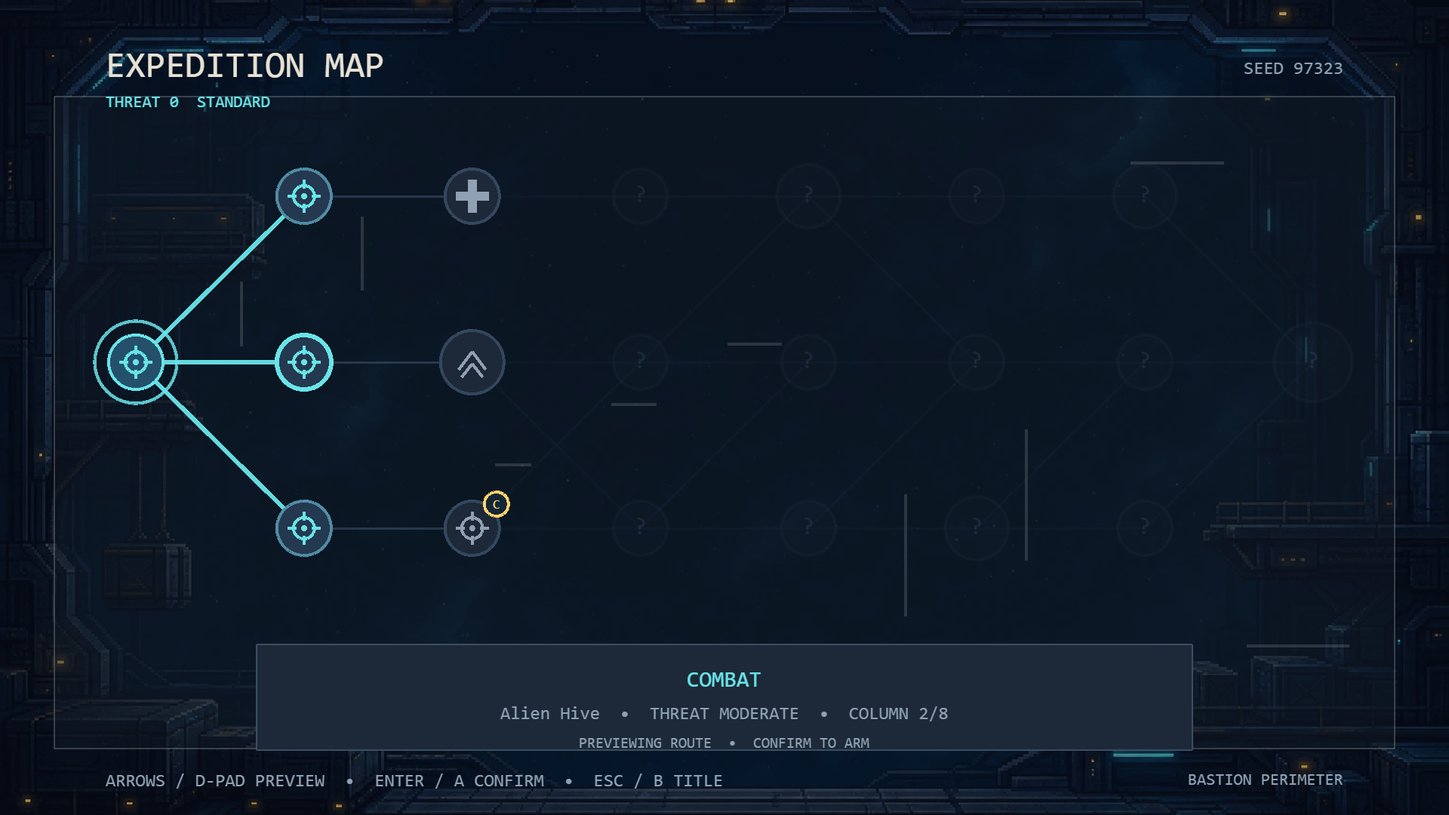
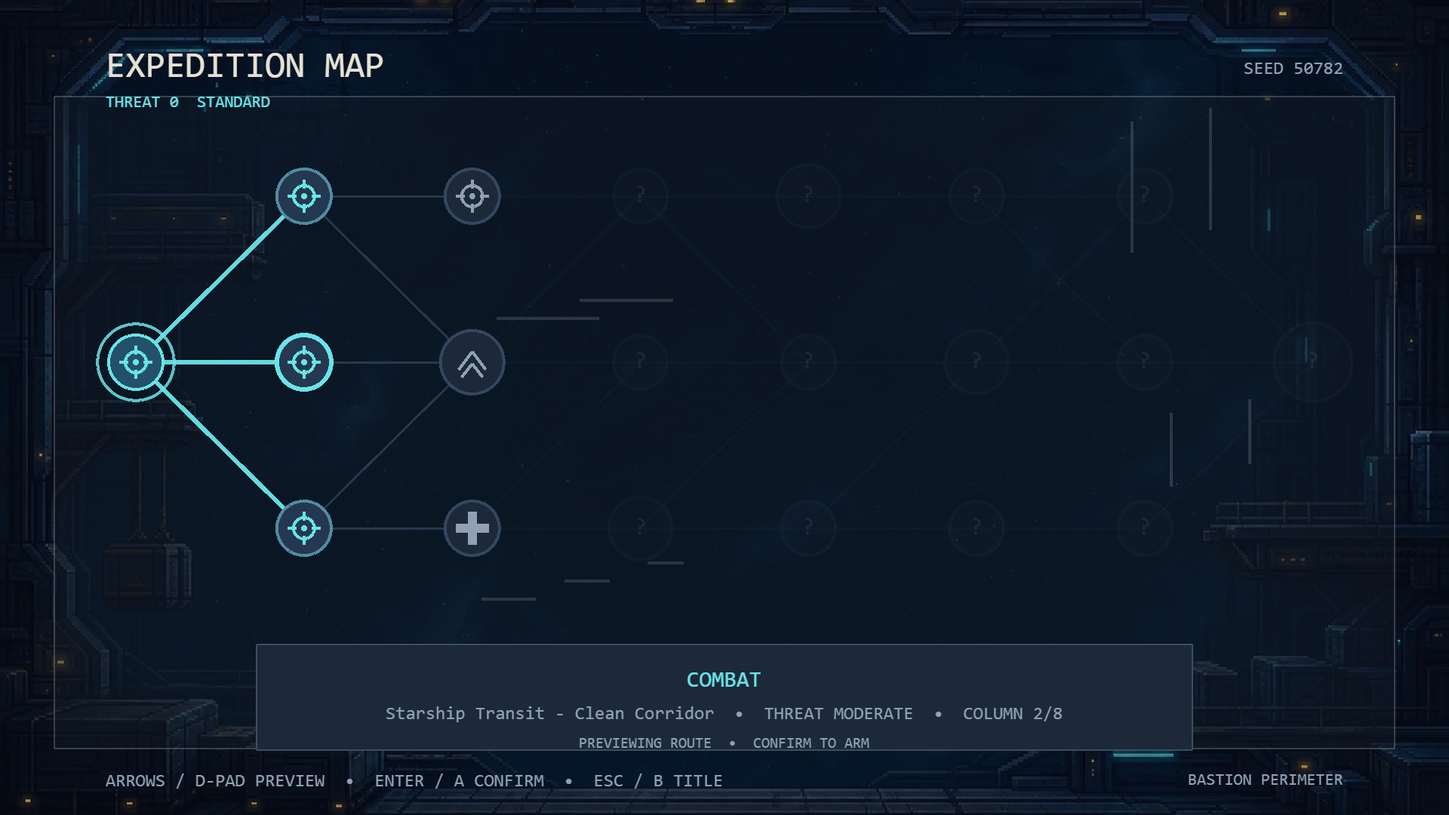
Last Bastion: clarify map objective and cleared badges

diff --git a/play/last-bastion/game-assets/ExpeditionScene.js b/play/last-bastion/game-assets/ExpeditionScene.js
@@ -1,1 +1,1 @@
-import{t as e}from"./phaser.js";import{H as t,Nt as n,St as r,f as i,l as a,p as o}from"./game.js";import{n as s,r as c}from"./PhaserAssetQueue.js";import{a as l,c as u,i as d,l as f,n as p,o as m,r as h,s as g,t as _,u as v}from"./arctic-relay-map-backdrop-v1-1536x1024.js";import{a as y,b,c as x,i as S,l as C,n as w,o as T,r as E,s as D,u as O,v as k,y as A}from"./ExpeditionRun.js";import{t as j}from"./BastionBackdropAsset.js";var M=z(`alien-hive-map-backdrop-v1`,c(v,f)),N=z(`arctic-relay-map-backdrop-v1`,c(p,_)),P=z(`machine-foundry-map-backdrop-v1`,c(u,g)),F=z(`science-wing-map-backdrop-v1`,c(m,l)),I=z(`void-approach-map-backdrop-v1`,c(d,h)),L=Object.freeze({"bastion-standard":j,"bastion-logistics":j,emberfall:P,"toxic-bloom":M,"surface-frontier":j,"starship-transit":F,"containment-underworld":I,"alien-hive":M,"machine-foundry":P,"science-wing":F,"void-approach":I,"arctic-relay":N});function R(e){return L[e]??j}function z(e,t){return Object.freeze({kind:`image`,id:e,url:t,logicalWidth:1536,logicalHeight:1024,pivot:Object.freeze({x:.5,y:.5})})}function B(e,t,n,r){let i=r!==void 0&&n.includes(r)?r:n[0],a=i===void 0?null:C(e,i),o=C(e,t);return R(a?.themeId??o?.themeId??`bastion-standard`)}function V(e){switch(e){case 12:case 14:return`previous`;case 13:case 15:return`next`;case 0:return`confirm`;case 1:return`back`;default:return null}}var H=Object.freeze({combat:`crosshair`,elite:`chevrons`,"mini-boss":`crown`,"supply-depot":`medical-cross`,"weapon-cache":`weapon-crate`,shrine:`shrine`,event:`question`,liberation:`flag`,boss:`skull`});function U(e,t,n,r,i){let a=e.add.graphics().setPosition(n,r);switch(a.lineStyle(t===`boss`?2.5:2,i,1).fillStyle(i,1),H[t]){case`crosshair`:a.strokeCircle(0,0,7).lineBetween(-11,0,-5,0).lineBetween(5,0,11,0).lineBetween(0,-11,0,-5).lineBetween(0,5,0,11).fillCircle(0,0,2);break;case`chevrons`:a.beginPath().moveTo(-9,5).lineTo(0,-7).lineTo(9,5).strokePath(),a.beginPath().moveTo(-7,10).lineTo(0,1).lineTo(7,10).strokePath();break;case`crown`:a.beginPath().moveTo(-10,7).lineTo(-8,-7).lineTo(-2,-1).lineTo(0,-9).lineTo(3,-1).lineTo(9,-7).lineTo(10,7).closePath().strokePath(),a.lineBetween(-9,4,9,4);break;case`medical-cross`:a.fillRect(-3,-11,6,22).fillRect(-11,-3,22,6);break;case`weapon-crate`:a.strokeRect(-11,-8,22,16).lineBetween(-7,5,7,-5).fillCircle(-7,5,2).fillCircle(7,-5,2);break;case`shrine`:a.beginPath().moveTo(0,-12).lineTo(10,0).lineTo(0,12).lineTo(-10,0).closePath().strokePath(),a.strokeCircle(0,0,3);break;case`question`:a.beginPath().arc(0,-4,7,Math.PI,Math.PI*2.15).strokePath().lineBetween(5,0,0,6).fillCircle(0,11,2);break;case`flag`:a.lineBetween(-7,-11,-7,11).beginPath().moveTo(-6,-10).lineTo(9,-7).lineTo(4,0).lineTo(-6,-2).closePath().strokePath();break;case`skull`:a.strokeCircle(0,-2,10).fillCircle(-4,-4,2.5).fillCircle(4,-4,2.5).lineBetween(-6,7,6,7).lineBetween(-3,7,-3,11).lineBetween(1,7,1,11).lineBetween(5,7,5,10);break}return a}var W=960,G=540,K=1911096,q=`#e8e2d4`,J=`#68e4e8`,Y=6874344,X=`#ff9a52`,Z=`#8fa1b3`,Q=90,$=W-90,ee=130,te=110,ne=Object.freeze({combat:`COMBAT`,elite:`ELITE — guaranteed cache`,"mini-boss":`MINI-BOSS — arsenal reward`,"supply-depot":`SUPPLY DEPOT — safe`,"weapon-cache":`WEAPON CACHE — safe`,shrine:`SHRINE — a bargain`,event:`EVENT — unknown`,liberation:`OCCUPIED SITE — clear it to trade`,boss:`THE BASTION EATER`}),re=class extends e.Scene{saveStore;run;root;focusIndex=0;travelling=!1;armedNodeId=null;pulseTime=0;mapRevealBonusColumns=0;backdropPreloadKey=``;constructor(){super(`expedition`)}init(){this.saveStore=a(typeof window<`u`?window:null),this.mapRevealBonusColumns=r(this.saveStore.load().selectedPerkId).mapRevealBonusColumns,this.run=this.restoreOrStartRun()}preload(){s(this,[this.currentBackdropAsset()])}create(){this.root=this.add.container(0,0),window.addEventListener(`keydown`,this.handleKey),this.events.once(`shutdown`,()=>window.removeEventListener(`keydown`,this.handleKey)),this.input.gamepad?.on(`down`,(e,t)=>{if(this.travelling)return;let n=V(t.index);n===`previous`?this.moveFocus(-1):n===`next`?this.moveFocus(1):n===`confirm`?this.confirmFocusedNode():n===`back`&&(window.location.href=`?screen=title`)}),this.render(),window.setTimeout(()=>this.preloadLikelyNextBackdrop(),0),E(this.run)?this.saveStore.clearExpedition():w(this.run)&&window.setTimeout(()=>this.launchCurrentEncounter(),0)}update(e,t){this.pulseTime+=t,this.root.getByName(`current-pulse`)?.setScale(1+Math.sin(this.pulseTime/260)*.12)}restoreOrStartRun(){let e=new URLSearchParams(window.location.search),t=Number(e.get(`mapseed`)),n=i(Number(e.get(`threat`)));if(Number.isFinite(t)&&t>0)return x(Math.floor(t),n);let r=this.saveStore.load().expedition;if(r){let e=T({mapSeed:r.mapSeed,threatTier:i(r.threatTier),currentNodeId:r.currentNodeId,clearedNodeIds:r.clearedNodeIds,build:r.build,metrics:r.metrics});if(e)return e;this.saveStore.clearExpedition()}return x(Date.now()%1e5+1,n)}handleKey=e=>{if(!this.travelling)switch(e.code){case`ArrowUp`:case`KeyW`:case`ArrowLeft`:case`KeyA`:e.preventDefault(),this.moveFocus(-1);break;case`ArrowDown`:case`KeyS`:case`ArrowRight`:case`KeyD`:e.preventDefault(),this.moveFocus(1);break;case`Enter`:case`Space`:case`NumpadEnter`:e.preventDefault(),this.confirmFocusedNode();break;case`Escape`:e.preventDefault(),window.location.href=`?screen=title`;break}};moveFocus(e){let t=D(this.run);t.length!==0&&(this.focusIndex=(this.focusIndex+e+t.length)%t.length,this.armedNodeId=null,this.render(),window.setTimeout(()=>this.preloadLikelyNextBackdrop(),0))}confirmFocusedNode(){let e=D(this.run)[this.focusIndex];if(e!==void 0){if(this.armedNodeId!==e){this.armedNodeId=e,this.render(),window.setTimeout(()=>this.preloadLikelyNextBackdrop(),0);return}this.travelTo(e)}}focusNode(e){let t=D(this.run).indexOf(e);t<0||t===this.focusIndex||(this.focusIndex=t,this.armedNodeId=null,this.render(),window.setTimeout(()=>this.preloadLikelyNextBackdrop(),0))}selectNode(e){let t=D(this.run).indexOf(e);if(!(t<0)){if(this.focusIndex=t,this.armedNodeId===e){this.travelTo(e);return}this.armedNodeId=e,this.render(),window.setTimeout(()=>this.preloadLikelyNextBackdrop(),0)}}travelTo(e){let t=S(this.run,e);if(!t||this.travelling)return;let n=this.nodePosition(C(this.run.map,this.run.state.currentNodeId)),r=this.nodePosition(C(this.run.map,e));this.run=t,this.focusIndex=0,this.autosave(),this.render(),window.setTimeout(()=>this.preloadLikelyNextBackdrop(),0),this.travelling=!0;let i=this.add.triangle(n.x,n.y,0,-9,8,7,-8,7,16765803).setDepth(50).setRotation(Math.atan2(r.y-n.y,r.x-n.x)+Math.PI/2);this.tweens.add({targets:i,x:r.x,y:r.y,duration:420}),window.setTimeout(()=>{i.active&&i.destroy(),this.travelling=!1,this.launchCurrentEncounter()},450)}launchCurrentEncounter(){let e=C(this.run.map,this.run.state.currentNodeId);if(!(!e||!w(this.run))){if(e.type===`shrine`||e.type===`event`){window.location.href=`?screen=event&expedition=1&node=${e.id}`;return}window.location.href=A(k(this.run.state.mapSeed,e,this.run.state.threatTier))}}autosave(){if(E(this.run)){this.saveStore.clearExpedition();return}this.saveStore.saveExpedition({mapSeed:this.run.state.mapSeed,threatTier:this.run.state.threatTier,currentNodeId:this.run.state.currentNodeId,clearedNodeIds:[...this.run.state.clearedNodeIds],build:this.run.state.build===null?null:{...this.run.state.build,weapons:this.run.state.build.weapons.map(e=>({...e})),upgrades:this.run.state.build.upgrades.map(e=>({...e})),transformation:t(this.run.state.build.transformation)},metrics:this.run.state.metrics})}nodePosition(e){return{x:Q+e.column/(this.run.map.columns-1)*($-Q),y:ee+e.lane*te}}render(){window.__expeditionState={currentNodeId:this.run.state.currentNodeId,cleared:this.run.state.clearedNodeIds.length,selectable:D(this.run),focusedNodeId:D(this.run)[this.focusIndex]??null,armedNodeId:this.armedNodeId,complete:E(this.run),seed:this.run.state.mapSeed,threatTier:this.run.state.threatTier},this.root.removeAll(!0);let e=C(this.run.map,this.run.state.currentNodeId),t=O.find(t=>t.id===e.themeId)??O[0];this.renderBackdrop(t),this.root.add(this.text(70,32,`EXPEDITION MAP`,q,`24px`));let n=o(this.run.state.threatTier);this.root.add(this.text(70,61,`THREAT ${n.tier}  ${n.name}`,n.tier>0?X:J,`11px`)),this.root.add(this.text(W-70,38,`SEED ${this.run.state.mapSeed}`,Z,`12px`).setOrigin(1,0)),this.renderEdges(),this.renderNodes(),this.renderIntelCard(),E(this.run)?(this.root.add(this.add.rectangle(W/2,G/2,560,130,K).setStrokeStyle(2,Y).setDepth(60)),this.root.add(this.text(W/2,G/2-22,`EXPEDITION COMPLETE`,J,`24px`,!0).setDepth(61)),this.root.add(this.text(W/2,288,`The Bastion Eater's node is cleared. ESC returns to the title.`,q,`13px`,!0).setDepth(61))):this.root.add(this.text(70,G-30,`ARROWS / D-PAD PREVIEW  •  ENTER / A CONFIRM  •  ESC / B TITLE`,Z,`12px`))}renderBackdrop(e){this.root.add(this.add.rectangle(W/2,G/2,W,G,e.backdropColor));let t=R(e.id);this.textures.exists(t.id)&&this.root.add(this.add.image(W/2,G/2,t.id).setDisplaySize(W,512/768*W).setAlpha(.72)),this.root.add(this.add.rectangle(W/2,280,W-72,G-108,e.backdropColor,.46).setStrokeStyle(1,e.floorTint,.2));let n=this.run.state.mapSeed+this.run.state.currentNodeId*17;for(let t=0;t<9;t+=1){let r=80+n*(t+3)*13%800,i=88+n*(t+5)*7%360,a=24+t*19%70;this.root.add(this.add.rectangle(r,i,a,2,e.boundaryTint,.14).setAngle(t%2==0?0:90))}this.root.add(this.text(W-70,G-30,e.name.toUpperCase(),Z,`11px`).setOrigin(1,0))}currentBackdropAsset(){return R(C(this.run.map,this.run.state.currentNodeId)?.themeId??`bastion-standard`)}preloadLikelyNextBackdrop(){if(this.travelling||!this.scene.isActive())return;let e=D(this.run),t=e[this.focusIndex],n=B(this.run.map,this.run.state.currentNodeId,e,t);n.id===this.currentBackdropAsset().id||n.id===this.backdropPreloadKey||this.textures.exists(n.id)||(this.backdropPreloadKey=n.id,s(this,[n])>0&&!this.load.isLoading()&&this.load.start())}renderEdges(){let e=this.add.graphics().setDepth(1);for(let t of this.run.map.nodes){let n=this.nodePosition(t);for(let r of t.next){let i=C(this.run.map,r),a=this.nodePosition(i),o=t.id===this.run.state.currentNodeId&&D(this.run).includes(r),s=this.isInsideIntelHorizon(i);e.lineStyle(o?3:1.5,o?Y:3360606,o?.95:s?.7:.08),e.lineBetween(n.x,n.y,a.x,a.y)}}this.root.add(e)}renderNodes(){let t=D(this.run)[this.focusIndex];for(let n of this.run.map.nodes){let{x:r,y:i}=this.nodePosition(n),a=y(this.run,n.id),o=this.isInsideIntelHorizon(n),s=n.id===t,c=n.id===this.armedNodeId,l=a===`current`?2379883:a===`reachable`?2373711:a===`cleared`?1712686:a===`open`?K:1580841,u=c?16751186:a===`current`||s?Y:a===`reachable`?5213347:a===`cleared`?2898247:3360606,d=n.type===`boss`?26:n.type===`mini-boss`||n.type===`elite`?21:18,f=this.add.circle(r,i,d,l).setStrokeStyle(s||c?3:2,u).setDepth(10).setAlpha(o?a===`unreachable`?.35:a===`cleared`?.55:1:.1);this.root.add(f);let p=a===`current`||a===`reachable`||s?n.type===`boss`?X:J:Z;o?this.root.add(U(this,n.type,r,i,e.Display.Color.HexStringToColor(p).color).setDepth(11).setAlpha(a===`unreachable`?.4:1)):this.root.add(this.text(r,i-1,`?`,Z,`16px`,!0).setDepth(11).setAlpha(.12));let m=o?k(this.run.state.mapSeed,n,this.run.state.threatTier).objectiveMode:null;if(m){let e=m===`escort`?`E`:m===`deny`?`D`:`C`;this.root.add(this.add.circle(r+d-2,i-d+2,8,1254967).setStrokeStyle(2,16765803).setDepth(13)),this.root.add(this.text(r+d-2,i-d+2,e,`#ffd36b`,`9px`,!0).setDepth(14))}if(a===`cleared`&&this.root.add(this.text(r+d-4,i-d+2,`✓`,J,`11px`,!0).setDepth(12).setAlpha(.8)),a===`current`){let e=this.add.circle(r,i,d+7).setStrokeStyle(2,Y,.85).setDepth(9);e.setName(`current-pulse`),this.root.add(e)}if(a===`reachable`){let e=this.add.zone(r-d,i-d,d*2,d*2).setOrigin(0,0).setInteractive();e.on(`pointerover`,()=>this.focusNode(n.id)),e.on(`pointerdown`,()=>this.selectNode(n.id)),this.root.add(e)}}}isInsideIntelHorizon(e){let t=C(this.run.map,this.run.state.currentNodeId);return e.column<=t.column+2+this.mapRevealBonusColumns}renderIntelCard(){let e=D(this.run)[this.focusIndex];if(e===void 0)return;let t=C(this.run.map,e),n=O.find(e=>e.id===t.themeId),r=k(this.run.state.mapSeed,t,this.run.state.threatTier).objectiveMode,i=t.type===`boss`?`EXTREME`:t.type===`mini-boss`?`SEVERE`:t.type===`elite`?`HIGH`:t.type===`event`?`UNKNOWN`:t.type===`shrine`?`CHOICE`:t.type===`combat`?t.column>=5?`ELEVATED`:`MODERATE`:`NONE`;this.root.add(this.add.rectangle(W/2,G-78,620,70,K).setStrokeStyle(1,this.armedNodeId===e?16751186:3886435).setDepth(20));let a=r?`  •  OBJECTIVE ${b(r)}`:``;this.root.add(this.text(W/2,G-90,`${ne[t.type]}${a}`,J,`15px`,!0).setDepth(21)),this.root.add(this.text(W/2,G-68,`${n?.name??`Unknown region`}  •  THREAT ${i}  •  COLUMN ${t.column+1}/${this.run.map.columns}`,Z,`12px`,!0).setDepth(21)),this.root.add(this.text(W/2,G-48,this.armedNodeId===e?`ROUTE ARMED  •  CONFIRM AGAIN TO DEPLOY`:`PREVIEWING ROUTE  •  CONFIRM TO ARM`,this.armedNodeId===e?X:Z,`10px`,!0).setDepth(21))}text(e,t,r,i,a,o=!1){let s=this.add.text(e,t,r,{fontFamily:`Consolas, monospace`,fontSize:a,color:i,align:o?`center`:`left`}).setResolution(n());return o&&s.setOrigin(.5,.5),s}};export{re as ExpeditionScene};
+import{t as e}from"./phaser.js";import{H as t,Nt as n,St as r,f as i,l as a,p as o}from"./game.js";import{n as s,r as c}from"./PhaserAssetQueue.js";import{a as l,c as u,i as d,l as f,n as p,o as m,r as h,s as g,t as _,u as v}from"./arctic-relay-map-backdrop-v1-1536x1024.js";import{a as y,b,c as x,i as S,l as C,n as w,o as ee,r as T,s as E,u as D,v as O,y as k}from"./ExpeditionRun.js";import{t as A}from"./BastionBackdropAsset.js";var j=R(`alien-hive-map-backdrop-v1`,c(v,f)),M=R(`arctic-relay-map-backdrop-v1`,c(p,_)),N=R(`machine-foundry-map-backdrop-v1`,c(u,g)),P=R(`science-wing-map-backdrop-v1`,c(m,l)),F=R(`void-approach-map-backdrop-v1`,c(d,h)),I=Object.freeze({"bastion-standard":A,"bastion-logistics":A,emberfall:N,"toxic-bloom":j,"surface-frontier":A,"starship-transit":P,"containment-underworld":F,"alien-hive":j,"machine-foundry":N,"science-wing":P,"void-approach":F,"arctic-relay":M});function L(e){return I[e]??A}function R(e,t){return Object.freeze({kind:`image`,id:e,url:t,logicalWidth:1536,logicalHeight:1024,pivot:Object.freeze({x:.5,y:.5})})}function z(e,t,n,r){let i=r!==void 0&&n.includes(r)?r:n[0],a=i===void 0?null:C(e,i),o=C(e,t);return L(a?.themeId??o?.themeId??`bastion-standard`)}function B(e){switch(e){case 12:case 14:return`previous`;case 13:case 15:return`next`;case 0:return`confirm`;case 1:return`back`;default:return null}}var V=Object.freeze({combat:`crosshair`,elite:`chevrons`,"mini-boss":`crown`,"supply-depot":`medical-cross`,"weapon-cache":`weapon-crate`,shrine:`shrine`,event:`question`,liberation:`flag`,boss:`skull`});function H(e,t,n,r,i){let a=e.add.graphics().setPosition(n,r);switch(a.lineStyle(t===`boss`?2.5:2,i,1).fillStyle(i,1),V[t]){case`crosshair`:a.strokeCircle(0,0,7).lineBetween(-11,0,-5,0).lineBetween(5,0,11,0).lineBetween(0,-11,0,-5).lineBetween(0,5,0,11).fillCircle(0,0,2);break;case`chevrons`:a.beginPath().moveTo(-9,5).lineTo(0,-7).lineTo(9,5).strokePath(),a.beginPath().moveTo(-7,10).lineTo(0,1).lineTo(7,10).strokePath();break;case`crown`:a.beginPath().moveTo(-10,7).lineTo(-8,-7).lineTo(-2,-1).lineTo(0,-9).lineTo(3,-1).lineTo(9,-7).lineTo(10,7).closePath().strokePath(),a.lineBetween(-9,4,9,4);break;case`medical-cross`:a.fillRect(-3,-11,6,22).fillRect(-11,-3,22,6);break;case`weapon-crate`:a.strokeRect(-11,-8,22,16).lineBetween(-7,5,7,-5).fillCircle(-7,5,2).fillCircle(7,-5,2);break;case`shrine`:a.beginPath().moveTo(0,-12).lineTo(10,0).lineTo(0,12).lineTo(-10,0).closePath().strokePath(),a.strokeCircle(0,0,3);break;case`question`:a.beginPath().arc(0,-4,7,Math.PI,Math.PI*2.15).strokePath().lineBetween(5,0,0,6).fillCircle(0,11,2);break;case`flag`:a.lineBetween(-7,-11,-7,11).beginPath().moveTo(-6,-10).lineTo(9,-7).lineTo(4,0).lineTo(-6,-2).closePath().strokePath();break;case`skull`:a.strokeCircle(0,-2,10).fillCircle(-4,-4,2.5).fillCircle(4,-4,2.5).lineBetween(-6,7,6,7).lineBetween(-3,7,-3,11).lineBetween(1,7,1,11).lineBetween(5,7,5,10);break}return a}function U(e,t,n,r){let i=e.add.graphics().setPosition(n,r).setDepth(14);switch(i.fillStyle(1254967).fillCircle(0,0,9),i.lineStyle(1.5,16765803).strokeCircle(0,0,8),i.lineStyle(1.7,16765803).fillStyle(16765803),t){case`escort`:i.lineBetween(-5,0,3,0).lineBetween(0,-3,4,0).lineBetween(4,0,0,3),i.fillRect(-5,-4,2,2).fillRect(-5,2,2,2);break;case`deny`:i.lineBetween(-5,-5,5,5).lineBetween(-5,5,5,-5),i.strokeRect(-5,-5,10,10);break;case`collect`:i.fillRect(-5,-4,3,3).fillRect(2,-4,3,3).fillRect(-1.5,0,3,3),i.lineBetween(-5,5,5,5);break}return i}function W(e,t,n){let r=e.add.graphics().setPosition(t,n).setDepth(14);return r.fillStyle(1254967).fillCircle(0,0,8),r.lineStyle(1.5,6874344).strokeCircle(0,0,7),r.lineStyle(2,6874344).lineBetween(-4,0,-1,3).lineBetween(-1,3,5,-4),r}var G=960,K=540,q=1911096,J=`#e8e2d4`,Y=`#68e4e8`,X=6874344,Z=`#ff9a52`,Q=`#8fa1b3`,$=90,te=G-90,ne=130,re=110,ie=Object.freeze({combat:`COMBAT`,elite:`ELITE — guaranteed cache`,"mini-boss":`MINI-BOSS — arsenal reward`,"supply-depot":`SUPPLY DEPOT — safe`,"weapon-cache":`WEAPON CACHE — safe`,shrine:`SHRINE — a bargain`,event:`EVENT — unknown`,liberation:`OCCUPIED SITE — clear it to trade`,boss:`THE BASTION EATER`}),ae=class extends e.Scene{saveStore;run;root;focusIndex=0;travelling=!1;armedNodeId=null;pulseTime=0;mapRevealBonusColumns=0;backdropPreloadKey=``;constructor(){super(`expedition`)}init(){this.saveStore=a(typeof window<`u`?window:null),this.mapRevealBonusColumns=r(this.saveStore.load().selectedPerkId).mapRevealBonusColumns,this.run=this.restoreOrStartRun()}preload(){s(this,[this.currentBackdropAsset()])}create(){this.root=this.add.container(0,0),window.addEventListener(`keydown`,this.handleKey),this.events.once(`shutdown`,()=>window.removeEventListener(`keydown`,this.handleKey)),this.input.gamepad?.on(`down`,(e,t)=>{if(this.travelling)return;let n=B(t.index);n===`previous`?this.moveFocus(-1):n===`next`?this.moveFocus(1):n===`confirm`?this.confirmFocusedNode():n===`back`&&(window.location.href=`?screen=title`)}),this.render(),window.setTimeout(()=>this.preloadLikelyNextBackdrop(),0),T(this.run)?this.saveStore.clearExpedition():w(this.run)&&window.setTimeout(()=>this.launchCurrentEncounter(),0)}update(e,t){this.pulseTime+=t,this.root.getByName(`current-pulse`)?.setScale(1+Math.sin(this.pulseTime/260)*.12)}restoreOrStartRun(){let e=new URLSearchParams(window.location.search),t=Number(e.get(`mapseed`)),n=i(Number(e.get(`threat`)));if(Number.isFinite(t)&&t>0)return x(Math.floor(t),n);let r=this.saveStore.load().expedition;if(r){let e=ee({mapSeed:r.mapSeed,threatTier:i(r.threatTier),currentNodeId:r.currentNodeId,clearedNodeIds:r.clearedNodeIds,build:r.build,metrics:r.metrics});if(e)return e;this.saveStore.clearExpedition()}return x(Date.now()%1e5+1,n)}handleKey=e=>{if(!this.travelling)switch(e.code){case`ArrowUp`:case`KeyW`:case`ArrowLeft`:case`KeyA`:e.preventDefault(),this.moveFocus(-1);break;case`ArrowDown`:case`KeyS`:case`ArrowRight`:case`KeyD`:e.preventDefault(),this.moveFocus(1);break;case`Enter`:case`Space`:case`NumpadEnter`:e.preventDefault(),this.confirmFocusedNode();break;case`Escape`:e.preventDefault(),window.location.href=`?screen=title`;break}};moveFocus(e){let t=E(this.run);t.length!==0&&(this.focusIndex=(this.focusIndex+e+t.length)%t.length,this.armedNodeId=null,this.render(),window.setTimeout(()=>this.preloadLikelyNextBackdrop(),0))}confirmFocusedNode(){let e=E(this.run)[this.focusIndex];if(e!==void 0){if(this.armedNodeId!==e){this.armedNodeId=e,this.render(),window.setTimeout(()=>this.preloadLikelyNextBackdrop(),0);return}this.travelTo(e)}}focusNode(e){let t=E(this.run).indexOf(e);t<0||t===this.focusIndex||(this.focusIndex=t,this.armedNodeId=null,this.render(),window.setTimeout(()=>this.preloadLikelyNextBackdrop(),0))}selectNode(e){let t=E(this.run).indexOf(e);if(!(t<0)){if(this.focusIndex=t,this.armedNodeId===e){this.travelTo(e);return}this.armedNodeId=e,this.render(),window.setTimeout(()=>this.preloadLikelyNextBackdrop(),0)}}travelTo(e){let t=S(this.run,e);if(!t||this.travelling)return;let n=this.nodePosition(C(this.run.map,this.run.state.currentNodeId)),r=this.nodePosition(C(this.run.map,e));this.run=t,this.focusIndex=0,this.autosave(),this.render(),window.setTimeout(()=>this.preloadLikelyNextBackdrop(),0),this.travelling=!0;let i=this.add.triangle(n.x,n.y,0,-9,8,7,-8,7,16765803).setDepth(50).setRotation(Math.atan2(r.y-n.y,r.x-n.x)+Math.PI/2);this.tweens.add({targets:i,x:r.x,y:r.y,duration:420}),window.setTimeout(()=>{i.active&&i.destroy(),this.travelling=!1,this.launchCurrentEncounter()},450)}launchCurrentEncounter(){let e=C(this.run.map,this.run.state.currentNodeId);if(!(!e||!w(this.run))){if(e.type===`shrine`||e.type===`event`){window.location.href=`?screen=event&expedition=1&node=${e.id}`;return}window.location.href=k(O(this.run.state.mapSeed,e,this.run.state.threatTier))}}autosave(){if(T(this.run)){this.saveStore.clearExpedition();return}this.saveStore.saveExpedition({mapSeed:this.run.state.mapSeed,threatTier:this.run.state.threatTier,currentNodeId:this.run.state.currentNodeId,clearedNodeIds:[...this.run.state.clearedNodeIds],build:this.run.state.build===null?null:{...this.run.state.build,weapons:this.run.state.build.weapons.map(e=>({...e})),upgrades:this.run.state.build.upgrades.map(e=>({...e})),transformation:t(this.run.state.build.transformation)},metrics:this.run.state.metrics})}nodePosition(e){return{x:$+e.column/(this.run.map.columns-1)*(te-$),y:ne+e.lane*re}}render(){window.__expeditionState={currentNodeId:this.run.state.currentNodeId,cleared:this.run.state.clearedNodeIds.length,selectable:E(this.run),focusedNodeId:E(this.run)[this.focusIndex]??null,armedNodeId:this.armedNodeId,complete:T(this.run),seed:this.run.state.mapSeed,threatTier:this.run.state.threatTier},this.root.removeAll(!0);let e=C(this.run.map,this.run.state.currentNodeId),t=D.find(t=>t.id===e.themeId)??D[0];this.renderBackdrop(t),this.root.add(this.text(70,32,`EXPEDITION MAP`,J,`24px`));let n=o(this.run.state.threatTier);this.root.add(this.text(70,61,`THREAT ${n.tier}  ${n.name}`,n.tier>0?Z:Y,`11px`)),this.root.add(this.text(G-70,38,`SEED ${this.run.state.mapSeed}`,Q,`12px`).setOrigin(1,0)),this.renderEdges(),this.renderNodes(),this.renderIntelCard(),T(this.run)?(this.root.add(this.add.rectangle(G/2,K/2,560,130,q).setStrokeStyle(2,X).setDepth(60)),this.root.add(this.text(G/2,K/2-22,`EXPEDITION COMPLETE`,Y,`24px`,!0).setDepth(61)),this.root.add(this.text(G/2,288,`The Bastion Eater's node is cleared. ESC returns to the title.`,J,`13px`,!0).setDepth(61))):this.root.add(this.text(70,K-30,`ARROWS / D-PAD PREVIEW  •  ENTER / A CONFIRM  •  ESC / B TITLE`,Q,`12px`))}renderBackdrop(e){this.root.add(this.add.rectangle(G/2,K/2,G,K,e.backdropColor));let t=L(e.id);this.textures.exists(t.id)&&this.root.add(this.add.image(G/2,K/2,t.id).setDisplaySize(G,512/768*G).setAlpha(.72)),this.root.add(this.add.rectangle(G/2,280,G-72,K-108,e.backdropColor,.46).setStrokeStyle(1,e.floorTint,.2));let n=this.run.state.mapSeed+this.run.state.currentNodeId*17;for(let t=0;t<9;t+=1){let r=80+n*(t+3)*13%800,i=88+n*(t+5)*7%360,a=24+t*19%70;this.root.add(this.add.rectangle(r,i,a,2,e.boundaryTint,.14).setAngle(t%2==0?0:90))}this.root.add(this.text(G-70,K-30,e.name.toUpperCase(),Q,`11px`).setOrigin(1,0))}currentBackdropAsset(){return L(C(this.run.map,this.run.state.currentNodeId)?.themeId??`bastion-standard`)}preloadLikelyNextBackdrop(){if(this.travelling||!this.scene.isActive())return;let e=E(this.run),t=e[this.focusIndex],n=z(this.run.map,this.run.state.currentNodeId,e,t);n.id===this.currentBackdropAsset().id||n.id===this.backdropPreloadKey||this.textures.exists(n.id)||(this.backdropPreloadKey=n.id,s(this,[n])>0&&!this.load.isLoading()&&this.load.start())}renderEdges(){let e=this.add.graphics().setDepth(1);for(let t of this.run.map.nodes){let n=this.nodePosition(t);for(let r of t.next){let i=C(this.run.map,r),a=this.nodePosition(i),o=t.id===this.run.state.currentNodeId&&E(this.run).includes(r),s=this.isInsideIntelHorizon(i);e.lineStyle(o?3:1.5,o?X:3360606,o?.95:s?.7:.08),e.lineBetween(n.x,n.y,a.x,a.y)}}this.root.add(e)}renderNodes(){let t=E(this.run)[this.focusIndex];for(let n of this.run.map.nodes){let{x:r,y:i}=this.nodePosition(n),a=y(this.run,n.id),o=this.isInsideIntelHorizon(n),s=n.id===t,c=n.id===this.armedNodeId,l=a===`current`?2379883:a===`reachable`?2373711:a===`cleared`?1712686:a===`open`?q:1580841,u=c?16751186:a===`current`||s?X:a===`reachable`?5213347:a===`cleared`?2898247:3360606,d=n.type===`boss`?26:n.type===`mini-boss`||n.type===`elite`?21:18,f=this.add.circle(r,i,d,l).setStrokeStyle(s||c?3:2,u).setDepth(10).setAlpha(o?a===`unreachable`?.35:a===`cleared`?.55:1:.1);this.root.add(f);let p=a===`current`||a===`reachable`||s?n.type===`boss`?Z:Y:Q;o?this.root.add(H(this,n.type,r,i,e.Display.Color.HexStringToColor(p).color).setDepth(11).setAlpha(a===`unreachable`?.4:1)):this.root.add(this.text(r,i-1,`?`,Q,`16px`,!0).setDepth(11).setAlpha(.12));let m=o?O(this.run.state.mapSeed,n,this.run.state.threatTier).objectiveMode:null;if(m&&this.root.add(U(this,m,r+d-2,i-d+2)),a===`cleared`&&this.root.add(W(this,r+d-2,i+d-2).setAlpha(.8)),a===`current`){let e=this.add.circle(r,i,d+7).setStrokeStyle(2,X,.85).setDepth(9);e.setName(`current-pulse`),this.root.add(e)}if(a===`reachable`){let e=this.add.zone(r-d,i-d,d*2,d*2).setOrigin(0,0).setInteractive();e.on(`pointerover`,()=>this.focusNode(n.id)),e.on(`pointerdown`,()=>this.selectNode(n.id)),this.root.add(e)}}}isInsideIntelHorizon(e){let t=C(this.run.map,this.run.state.currentNodeId);return e.column<=t.column+2+this.mapRevealBonusColumns}renderIntelCard(){let e=E(this.run)[this.focusIndex];if(e===void 0)return;let t=C(this.run.map,e),n=D.find(e=>e.id===t.themeId),r=O(this.run.state.mapSeed,t,this.run.state.threatTier).objectiveMode,i=t.type===`boss`?`EXTREME`:t.type===`mini-boss`?`SEVERE`:t.type===`elite`?`HIGH`:t.type===`event`?`UNKNOWN`:t.type===`shrine`?`CHOICE`:t.type===`combat`?t.column>=5?`ELEVATED`:`MODERATE`:`NONE`;this.root.add(this.add.rectangle(G/2,K-78,620,70,q).setStrokeStyle(1,this.armedNodeId===e?16751186:3886435).setDepth(20));let a=r?`  •  OBJECTIVE ${b(r)}`:``;this.root.add(this.text(G/2,K-90,`${ie[t.type]}${a}`,Y,`15px`,!0).setDepth(21)),this.root.add(this.text(G/2,K-68,`${n?.name??`Unknown region`}  •  THREAT ${i}  •  COLUMN ${t.column+1}/${this.run.map.columns}`,Q,`12px`,!0).setDepth(21)),this.root.add(this.text(G/2,K-48,this.armedNodeId===e?`ROUTE ARMED  •  CONFIRM AGAIN TO DEPLOY`:`PREVIEWING ROUTE  •  CONFIRM TO ARM`,this.armedNodeId===e?Z:Q,`10px`,!0).setDepth(21))}text(e,t,r,i,a,o=!1){let s=this.add.text(e,t,r,{fontFamily:`Consolas, monospace`,fontSize:a,color:i,align:o?`center`:`left`}).setResolution(n());return o&&s.setOrigin(.5,.5),s}};export{ae as ExpeditionScene};

diff --git a/play/last-bastion/dev/src/game/ui/MapStateIcons.ts b/play/last-bastion/dev/src/game/ui/MapStateIcons.ts
@@ -1,0 +1,41 @@
+import Phaser from "phaser";
+import type { ExpeditionObjectiveMode } from "../expedition/ExpeditionEncounter";
+
+/** Small, text-free marks that remain distinct when the map is shown in grayscale. */
+export function createObjectiveBadgeIcon(
+  scene: Phaser.Scene,
+  mode: ExpeditionObjectiveMode,
+  x: number,
+  y: number,
+): Phaser.GameObjects.Graphics {
+  const g = scene.add.graphics().setPosition(x, y).setDepth(14);
+  g.fillStyle(0x132637).fillCircle(0, 0, 9);
+  g.lineStyle(1.5, 0xffd36b).strokeCircle(0, 0, 8);
+  g.lineStyle(1.7, 0xffd36b).fillStyle(0xffd36b);
+  switch (mode) {
+    case "escort":
+      // Forward arrow with a trailing pair of convoy marks.
+      g.lineBetween(-5, 0, 3, 0).lineBetween(0, -3, 4, 0).lineBetween(4, 0, 0, 3);
+      g.fillRect(-5, -4, 2, 2).fillRect(-5, 2, 2, 2);
+      break;
+    case "deny":
+      // Closed barrier.
+      g.lineBetween(-5, -5, 5, 5).lineBetween(-5, 5, 5, -5);
+      g.strokeRect(-5, -5, 10, 10);
+      break;
+    case "collect":
+      // Three pieces gathered into a tray.
+      g.fillRect(-5, -4, 3, 3).fillRect(2, -4, 3, 3).fillRect(-1.5, 0, 3, 3);
+      g.lineBetween(-5, 5, 5, 5);
+      break;
+  }
+  return g;
+}
+
+export function createClearedBadgeIcon(scene: Phaser.Scene, x: number, y: number): Phaser.GameObjects.Graphics {
+  const g = scene.add.graphics().setPosition(x, y).setDepth(14);
+  g.fillStyle(0x132637).fillCircle(0, 0, 8);
+  g.lineStyle(1.5, 0x68e4e8).strokeCircle(0, 0, 7);
+  g.lineStyle(2, 0x68e4e8).lineBetween(-4, 0, -1, 3).lineBetween(-1, 3, 5, -4);
+  return g;
+}

diff --git a/play/last-bastion/dev/src/game/scenes/ExpeditionScene.ts b/play/last-bastion/dev/src/game/scenes/ExpeditionScene.ts
@@ -31,6 +31,7 @@ import {
 import { normalizeThreatTier, threatTierDefinition } from "../expedition/ThreatTier";
 import { expeditionMapGamepadIntent } from "../input/ExpeditionMapInput";
 import { createNodeMedallionIcon } from "../ui/NodeMedallionIcon";
+import { createClearedBadgeIcon, createObjectiveBadgeIcon } from "../ui/MapStateIcons";
 
 const WIDTH = 960;
 const HEIGHT = 540;
@@ -419,13 +420,10 @@ export class ExpeditionScene extends Phaser.Scene {
         ? expeditionEncounterForNode(this.run.state.mapSeed, node, this.run.state.threatTier).objectiveMode
         : null;
       if (objectiveMode) {
-        const badge = objectiveMode === "escort" ? "E" : objectiveMode === "deny" ? "D" : "C";
-        this.root.add(this.add.circle(x + radius - 2, y - radius + 2, 8, 0x132637)
-          .setStrokeStyle(2, 0xffd36b).setDepth(13));
-        this.root.add(this.text(x + radius - 2, y - radius + 2, badge, "#ffd36b", "9px", true).setDepth(14));
+        this.root.add(createObjectiveBadgeIcon(this, objectiveMode, x + radius - 2, y - radius + 2));
       }
       if (presentation === "cleared") {
-        this.root.add(this.text(x + radius - 4, y - radius + 2, "✓", TEAL, "11px", true).setDepth(12).setAlpha(0.8));
+        this.root.add(createClearedBadgeIcon(this, x + radius - 2, y + radius - 2).setAlpha(0.8));
       }
       if (presentation === "current") {
         const pulse = this.add.circle(x, y, radius + 7).setStrokeStyle(2, TEAL_HEX, 0.85).setDepth(9);

diff --git a/sw.js b/sw.js
@@ -14,7 +14,7 @@
  * cache itself the first time it's visited.
  */
 const CACHE = "snackpack-arcade-v21";
-const LAST_BASTION_RELEASE = "2026-10-11-goatcounter-funnel";
+const LAST_BASTION_RELEASE = "2026-10-11-map-state-icons";
 const LAST_BASTION_CACHE = `last-bastion-${LAST_BASTION_RELEASE}`;
 
 // Stable public filenames make a partial cache refresh unsafe: a new scene can

diff --git a/play/last-bastion/CURRENT-PLAN.md b/play/last-bastion/CURRENT-PLAN.md
@@ -36,6 +36,11 @@ published `game-assets/` as the source of truth for what ships.
   findings from the [presentation register](presentation-defect-plan-2026-08-23.md), with
   full-context evidence at 960×540, 1920×1080, and 3840×2160. Confirm the five-run matrix
   on keyboard/mouse and gamepad before claiming the slice is fair or finished.
+- **LB-07 progress, 11 October:** the map already uses nine distinct vector node pictograms.
+  Objective modes now use shape badges instead of `E/D/C`, and cleared status has a separate
+  lower corner so it cannot cover an objective badge. New automated map captures at the three
+  sizes above are in `playtest-evidence/2026-10-11-screens-auto/`. An observed review of the
+  map and its backdrop at real display sizes is still required before LB-07 closes.
 - Fix repeated comprehension, fairness, input, or registration failures; rerun the exact
   failed hero/tier/input combination. Do not expand Threat Tiers 3–11 before these gates pass.
 
